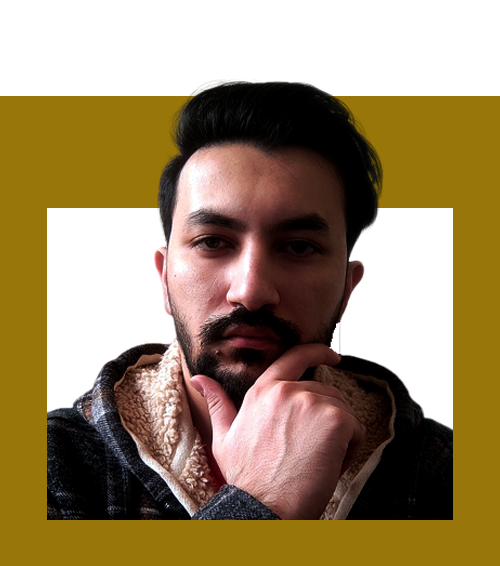
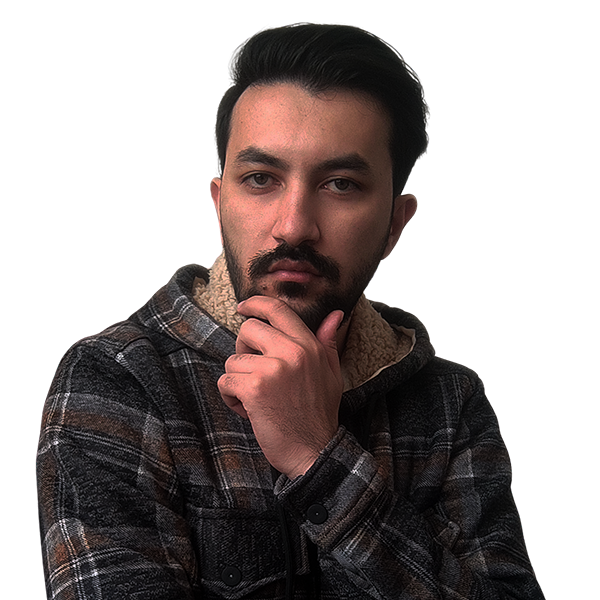
resume

diff --git a/index.html b/index.html
@@ -20,7 +20,7 @@
     <!-- Icon Bar (Sidebar - hidden on small screens) -->
     <nav class="w3-sidebar w3-bar-block w3-small w3-hide-small w3-center">
       <!-- Avatar image in top left corner -->
-      <img src="/w3images/avatar_smoke.jpg" style="width: 100%" />
+      <img src="img/mehrdad.png" style="width: 75%" />
       <a href="#" class="w3-bar-item w3-button w3-padding-large w3-black">
         <i class="fa fa-home w3-xxlarge"></i>
         <p>HOME</p>
@@ -32,12 +32,6 @@
         <i class="fa fa-user w3-xxlarge"></i>
         <p>ABOUT</p>
       </a>
-      <a
-        href="#photos"
-        class="w3-bar-item w3-button w3-padding-large w3-hover-black"
-      >
-        <i class="fa fa-eye w3-xxlarge"></i>
-        <p>PHOTOS</p>
       </a>
       <a
         href="#contact"
@@ -63,12 +57,6 @@
           >ABOUT</a
         >
         <a
-          href="#photos"
-          class="w3-bar-item w3-button"
-          style="width: 25% !important"
-          >PHOTOS</a
-        >
-        <a
           href="#contact"
           class="w3-bar-item w3-button"
           style="width: 25% !important"
@@ -82,44 +70,32 @@
       <!-- Header/Home -->
       <header class="w3-container w3-padding-32 w3-center w3-black" id="home">
         <h1 class="w3-jumbo">
-          <span class="w3-hide-small">I'm</span> John Doe.
+          <span class="w3-hide-small">I'm</span> Mehrdad Ganji.
         </h1>
-        <p>Photographer and Web Designer.</p>
-        <img
-          src="/w3images/man_smoke.jpg"
-          alt="boy"
-          class="w3-image"
-          width="992"
-          height="1108"
-        />
+        <img src="/img/mehrdad.png" alt="boy" class="w3-image" width="42.5%" />
+        <p>Front-End Developer and Web Designer.</p>
       </header>
 
       <!-- About Section -->
       <div class="w3-content w3-justify w3-text-grey w3-padding-64" id="about">
-        <h2 class="w3-text-light-grey">My Name</h2>
+        <h2 class="w3-text-light-grey">About me</h2>
         <hr style="width: 200px" class="w3-opacity" />
         <p>
-          Some text about me. Some text about me. I am lorem ipsum consectetur
-          adipiscing elit, sed do eiusmod tempor incididunt ut labore et dolore
-          magna aliqua. Ut enim ad minim veniam, quis nostrud exercitation
-          ullamco laboris nisi ut aliquip ex ea commodo consequat. Duis aute
-          irure dolor in reprehenderit in voluptate velit esse cillum dolore eu
-          fugiat nulla pariatur. Excepteur sint occaecat cupidatat non proident,
-          sunt in culpa qui officia deserunt mollit anim id est laborum
-          consectetur adipiscing elit, sed do eiusmod tempor incididunt ut
-          labore et dolore magna aliqua. Ut enim ad minim veniam, quis nostrud
-          exercitation ullamco laboris nisi ut aliquip ex ea commodo consequat.
+          I am Mehrdad Ganji. Graduated in mechanical engineering and working as
+          a Front-end developer and we designer.I enjoy doing developing
+          projects. It's fun to be able to design what you imagine in the real
+          world. My job is to portray and realize the ideas of employers.
         </p>
         <h3 class="w3-padding-16 w3-text-light-grey">My Skills</h3>
         <p class="w3-wide">Photography</p>
         <div class="w3-white">
-          <div class="w3-dark-grey" style="height: 28px; width: 95%"></div>
+          <div class="w3-dark-grey" style="height: 28px; width: 75%"></div>
         </div>
         <p class="w3-wide">Web Design</p>
         <div class="w3-white">
-          <div class="w3-dark-grey" style="height: 28px; width: 85%"></div>
+          <div class="w3-dark-grey" style="height: 28px; width: 65%"></div>
         </div>
-        <p class="w3-wide">Photoshop</p>
+        <p class="w3-wide">Photoshop and Illustrator</p>
         <div class="w3-white">
           <div class="w3-dark-grey" style="height: 28px; width: 80%"></div>
         </div>
@@ -162,7 +138,7 @@
               <li class="w3-padding-16">Mail Support</li>
               <li class="w3-padding-16">
                 <h2>$ 10</h2>
-                <span class="w3-opacity">per month</span>
+                <span class="w3-opacity">per hour</span>
               </li>
               <li class="w3-light-grey w3-padding-24">
                 <button
@@ -185,7 +161,7 @@
               <li class="w3-padding-16">Endless Support</li>
               <li class="w3-padding-16">
                 <h2>$ 25</h2>
-                <span class="w3-opacity">per month</span>
+                <span class="w3-opacity">per hour</span>
               </li>
               <li class="w3-light-grey w3-padding-24">
                 <button
@@ -202,7 +178,7 @@
         <!-- Testimonials -->
         <h3 class="w3-padding-24 w3-text-light-grey">My Reputation</h3>
         <img
-          src="/w3images/bandmember.jpg"
+          src="/img/chris-fox.jpg"
           alt="Avatar"
           class="w3-left w3-circle w3-margin-right"
           style="width: 80px"
@@ -215,25 +191,25 @@
         <br />
 
         <img
-          src="/w3images/avatar_g2.jpg"
+          src="/img/christina-flex.jpg"
           alt="Avatar"
           class="w3-left w3-circle w3-margin-right"
           style="width: 80px"
         />
         <p>
-          <span class="w3-large w3-margin-right">Rebecca Flex.</span> CEO at
+          <span class="w3-large w3-margin-right">christina Flex.</span> CEO at
           Company.
         </p>
         <p>No one is better than John Doe.</p>
         <!-- End About Section -->
       </div>
 
-      <!-- Portfolio Section -->
+      <!-- Portfolio Section 
       <div class="w3-padding-64 w3-content" id="photos">
         <h2 class="w3-text-light-grey">My Photos</h2>
         <hr style="width: 200px" class="w3-opacity" />
 
-        <!-- Grid for photos -->
+        
         <div class="w3-row-padding" style="margin: 0 -16px">
           <div class="w3-half">
             <img src="/w3images/wedding.jpg" style="width: 100%" />
@@ -247,11 +223,12 @@
             <img src="/w3images/wedding.jpg" style="width: 100%" />
             <img src="/w3images/p6.jpg" style="width: 100%" />
           </div>
-          <!-- End photo grid -->
+          
+          
         </div>
-        <!-- End Portfolio Section -->
+        
       </div>
-
+    -->
       <!-- Contact Section -->
       <div class="w3-padding-64 w3-content w3-text-grey" id="contact">
         <h2 class="w3-text-light-grey">Contact Me</h2>
@@ -262,20 +239,20 @@
             <i
               class="fa fa-map-marker fa-fw w3-text-white w3-xxlarge w3-margin-right"
             ></i>
-            Chicago, US
+            Zanjan, Islamic Republic of Iran
           </p>
           <p>
             <i
               class="fa fa-phone fa-fw w3-text-white w3-xxlarge w3-margin-right"
             ></i>
-            Phone: +00 151515
+            Phone: +98 9104866001
           </p>
           <p>
             <i
               class="fa fa-envelope fa-fw w3-text-white w3-xxlarge w3-margin-right"
             >
             </i>
-            Email: mail@mail.com
+            Email: developer.mehrdadganji@gmail.com
           </p>
         </div>
         <br />
@@ -332,21 +309,10 @@
 
       <!-- Footer -->
       <footer class="w3-content w3-padding-64 w3-text-grey w3-xlarge">
-        <i class="fa fa-facebook-official w3-hover-opacity"></i>
         <i class="fa fa-instagram w3-hover-opacity"></i>
-        <i class="fa fa-snapchat w3-hover-opacity"></i>
         <i class="fa fa-pinterest-p w3-hover-opacity"></i>
-        <i class="fa fa-twitter w3-hover-opacity"></i>
         <i class="fa fa-linkedin w3-hover-opacity"></i>
-        <p class="w3-medium">
-          Powered by
-          <a
-            href="https://www.w3schools.com/w3css/default.asp"
-            target="_blank"
-            class="w3-hover-text-green"
-            >w3.css</a
-          >
-        </p>
+        <p class="w3-medium"></p>
         <!-- End footer -->
       </footer>
 

diff --git a/style1.css b/style1.css
@@ -90,8 +90,8 @@ sup {
 figure {
   margin: 1em 40px;
 }
-img {
-  border-style: none;
+.w3-image {
+  border-style: double;
 }
 code,
 kbd,
